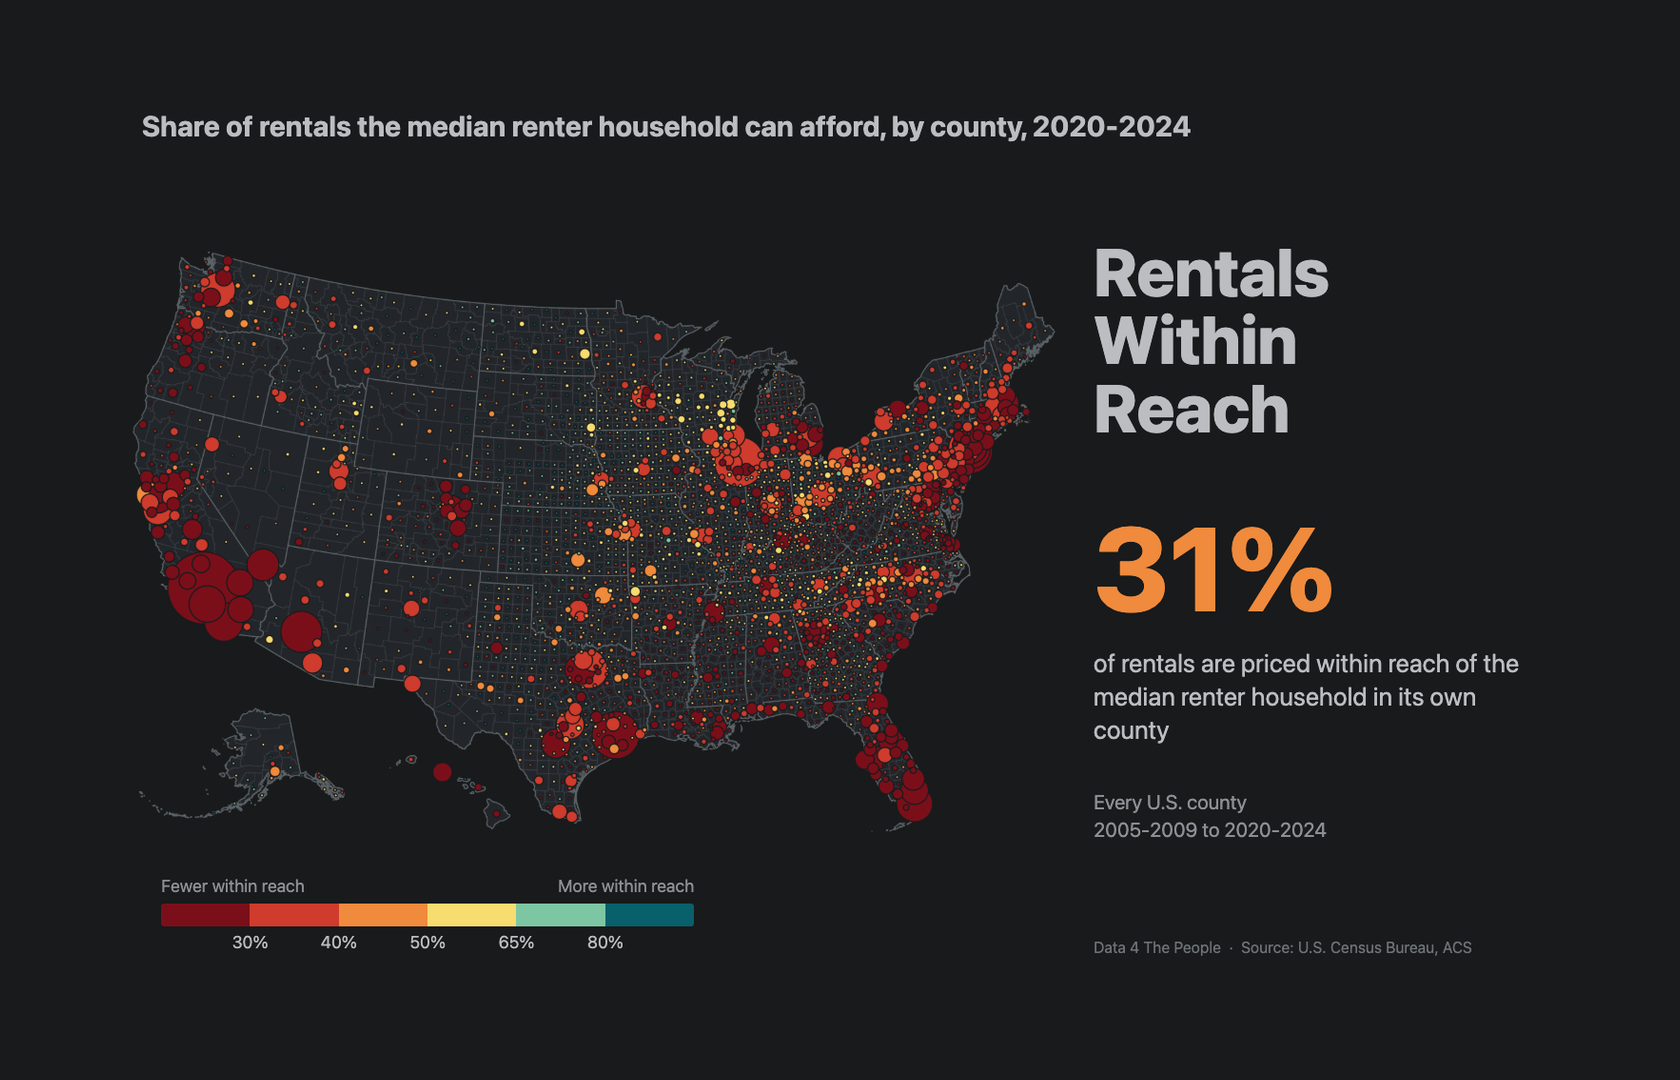
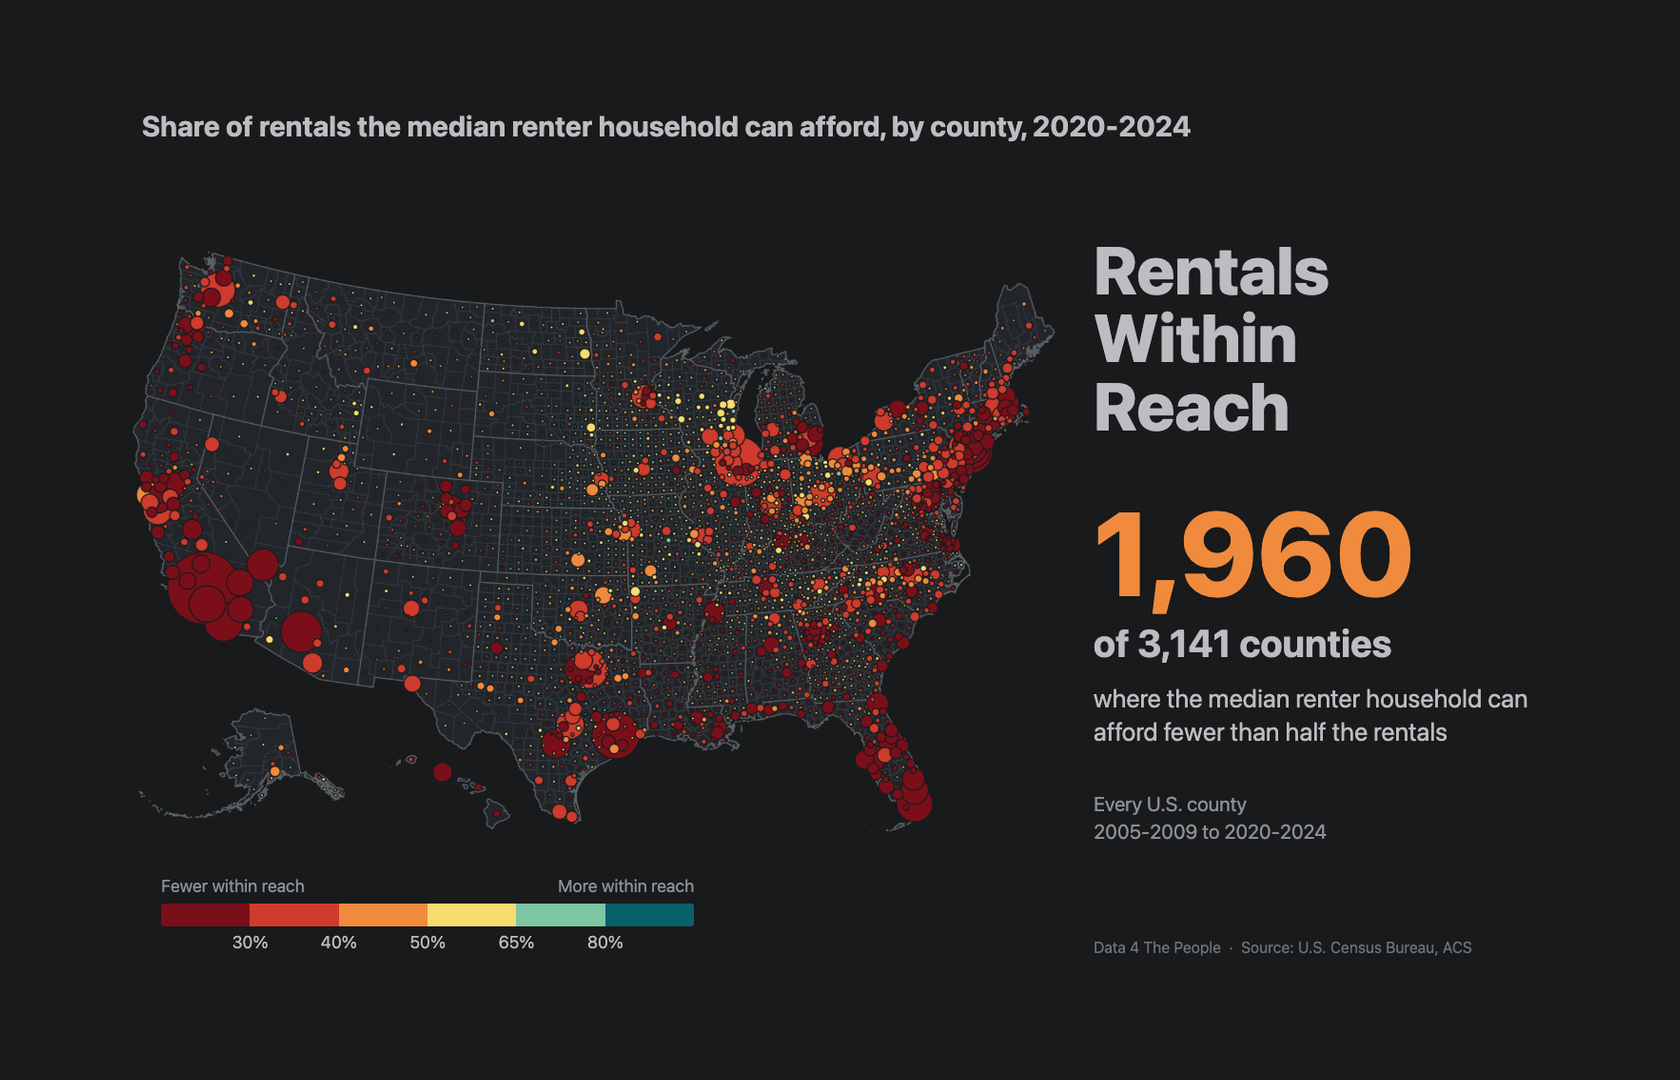
rentals-within-reach: hero headline is the count of counties under half

diff --git a/scripts/12_hero.py b/scripts/12_hero.py
@@ -1,7 +1,7 @@
-"""Hero image for the post: the default bubble map at hero scale beside the title and the headline figure.
+"""Hero image for the post: the default bubble map at hero scale beside the title and the headline count.
 
 Same layout as the child poverty viz hero. The map is shot from dist/index.html in headless Chrome with
-the dark palette, the headline percentage is read from the page, and the card is drawn at 1546 x 994 so
+the dark palette, the headline count is read from the page, and the card is drawn at 1546 x 994 so
 that `hero pad` brings it to 1680 x 1080 without scaling type.
 Output: posts/rentals-within-reach/images/rentals-within-reach-hero-source.png"""
 import base64
@@ -52,7 +52,8 @@ def main():
         time.sleep(1.5)
         ch.frame_done()
         sub = ch.js("document.getElementById('sub').textContent")
-        pct = re.search(r"could afford (?:at least )?([\d.]+%)", sub).group(1)
+        m_ = re.search(r"In ([\d,]+) of ([\d,]+) counties the share is under half", sub)
+        under, total = m_.group(1), m_.group(2)
         r = ch.js("(() => { const r = document.getElementById('mapbox').getBoundingClientRect(); return [r.x, r.y, r.width, r.height]; })()")
         d = ch.cmd("Page.captureScreenshot", format="png", clip=dict(x=r[0], y=r[1], width=r[2], height=r[3], scale=1))["data"]
         m = Image.open(io.BytesIO(base64.b64decode(d))).convert("RGB")
@@ -70,9 +71,10 @@ def main():
         .leg .ticks{{position:relative;height:28px;font-size:18px;color:{TEXT};margin-top:6px}}
         .leg .ticks span{{position:absolute;transform:translateX(-50%)}}
         .txt{{position:absolute;left:1040px;top:0;bottom:0;width:480px;display:flex;flex-direction:column;justify-content:center}}
-        h1{{font-size:70px;line-height:1.02;margin:0 0 70px;font-weight:800;color:{TEXT}}}
+        h1{{font-size:70px;line-height:1.02;margin:0 0 56px;font-weight:800;color:{TEXT}}}
         .big{{font-size:124px;font-weight:800;line-height:1;color:#f08a3c}}
-        .what{{font-size:27px;line-height:1.3;margin-top:22px;color:{TEXT}}}
+        .of{{font-size:40px;font-weight:700;margin-top:10px;color:{TEXT}}}
+        .what{{font-size:27px;line-height:1.3;margin-top:18px;color:{TEXT}}}
         .where{{font-size:21px;line-height:1.35;color:{MUTED};margin-top:44px}}
         .src{{position:absolute;left:1040px;bottom:60px;font-size:16px;color:{DIM}}}
         </style></head><body>
@@ -82,8 +84,9 @@ def main():
           <div class="strip">{''.join(f'<span style="background:{c}"></span>' for c in RAMP)}</div>
           <div class="ticks">{''.join(f'<span style="left:{(i + 1) / 6 * 100:.2f}%">{t}</span>' for i, t in enumerate(ticks))}</div></div>
         <div class="txt"><h1>Rentals<br>Within<br>Reach</h1>
-          <div class="big">{pct}</div>
-          <div class="what">of rentals are priced within reach of the median renter household in its own county</div>
+          <div class="big">{under}</div>
+          <div class="of">of {total} counties</div>
+          <div class="what">where the median renter household can afford fewer than half the rentals</div>
           <div class="where">Every U.S. county<br>2005-2009 to 2020-2024</div></div>
         <div class="src">Data 4 The People &nbsp;&middot;&nbsp; Source: U.S. Census Bureau, ACS</div>
         </body></html>"""
@@ -95,7 +98,7 @@ def main():
         time.sleep(1.5)
         out = IMG / "rentals-within-reach-hero-source.png"
         ch.shot().save(out, optimize=True)
-        print("wrote", out, "headline figure", pct)
+        print("wrote", out, "headline figure", under, "of", total)
     finally:
         ch.close()
 

diff --git a/posts/rentals-within-reach/POST.md b/posts/rentals-within-reach/POST.md
@@ -5,7 +5,7 @@ slug: rentals-within-reach
 date: 2026-10-08
 section: Data 4 Thought, Visualization
 hero: images/rentals-within-reach-hero-1680x1080.png
-hero_alt: "Dark map of the United States with one bubble per county, sized by its number of rentals and colored by the share the median renter household can afford in 2020-2024. Most large bubbles, including Los Angeles, Phoenix, Houston, South Florida, Chicago and the Northeast, are dark red or red, meaning under 40% within reach. Smaller yellow and orange bubbles dot the Midwest. Text: Rentals Within Reach, 31% of rentals are priced within reach of the median renter household in its own county."
+hero_alt: "Dark map of the United States with one bubble per county, sized by its number of rentals and colored by the share the median renter household can afford in 2020-2024. Most large bubbles, including Los Angeles, Phoenix, Houston, South Florida, Chicago and the Northeast, are dark red or red, meaning under 40% within reach. Smaller yellow and orange bubbles dot the Midwest. Text: Rentals Within Reach. In 1,960 of 3,141 counties the median renter household can afford fewer than half the rentals."
 meta_title:
 description:
 keywords:

diff --git a/STATUS.md b/STATUS.md
@@ -108,3 +108,4 @@ None.
 - 2026-10-08 Step 2c: drop cap turned off for this post and no divider dots (Eric).
 - 2026-10-08 Step 2c confirmed by Eric. Step 2d opened.
 - 2026-10-08 Step 2d: hero built from the default map at hero scale (scripts/12_hero.py), padded to 1680x1080; alt text written. Awaiting Eric.
+- 2026-10-08 Step 2d: Eric did not follow the 31% national figure on the hero, so the headline is now the count of counties under half (1,960 of 3,141), read from the page.
